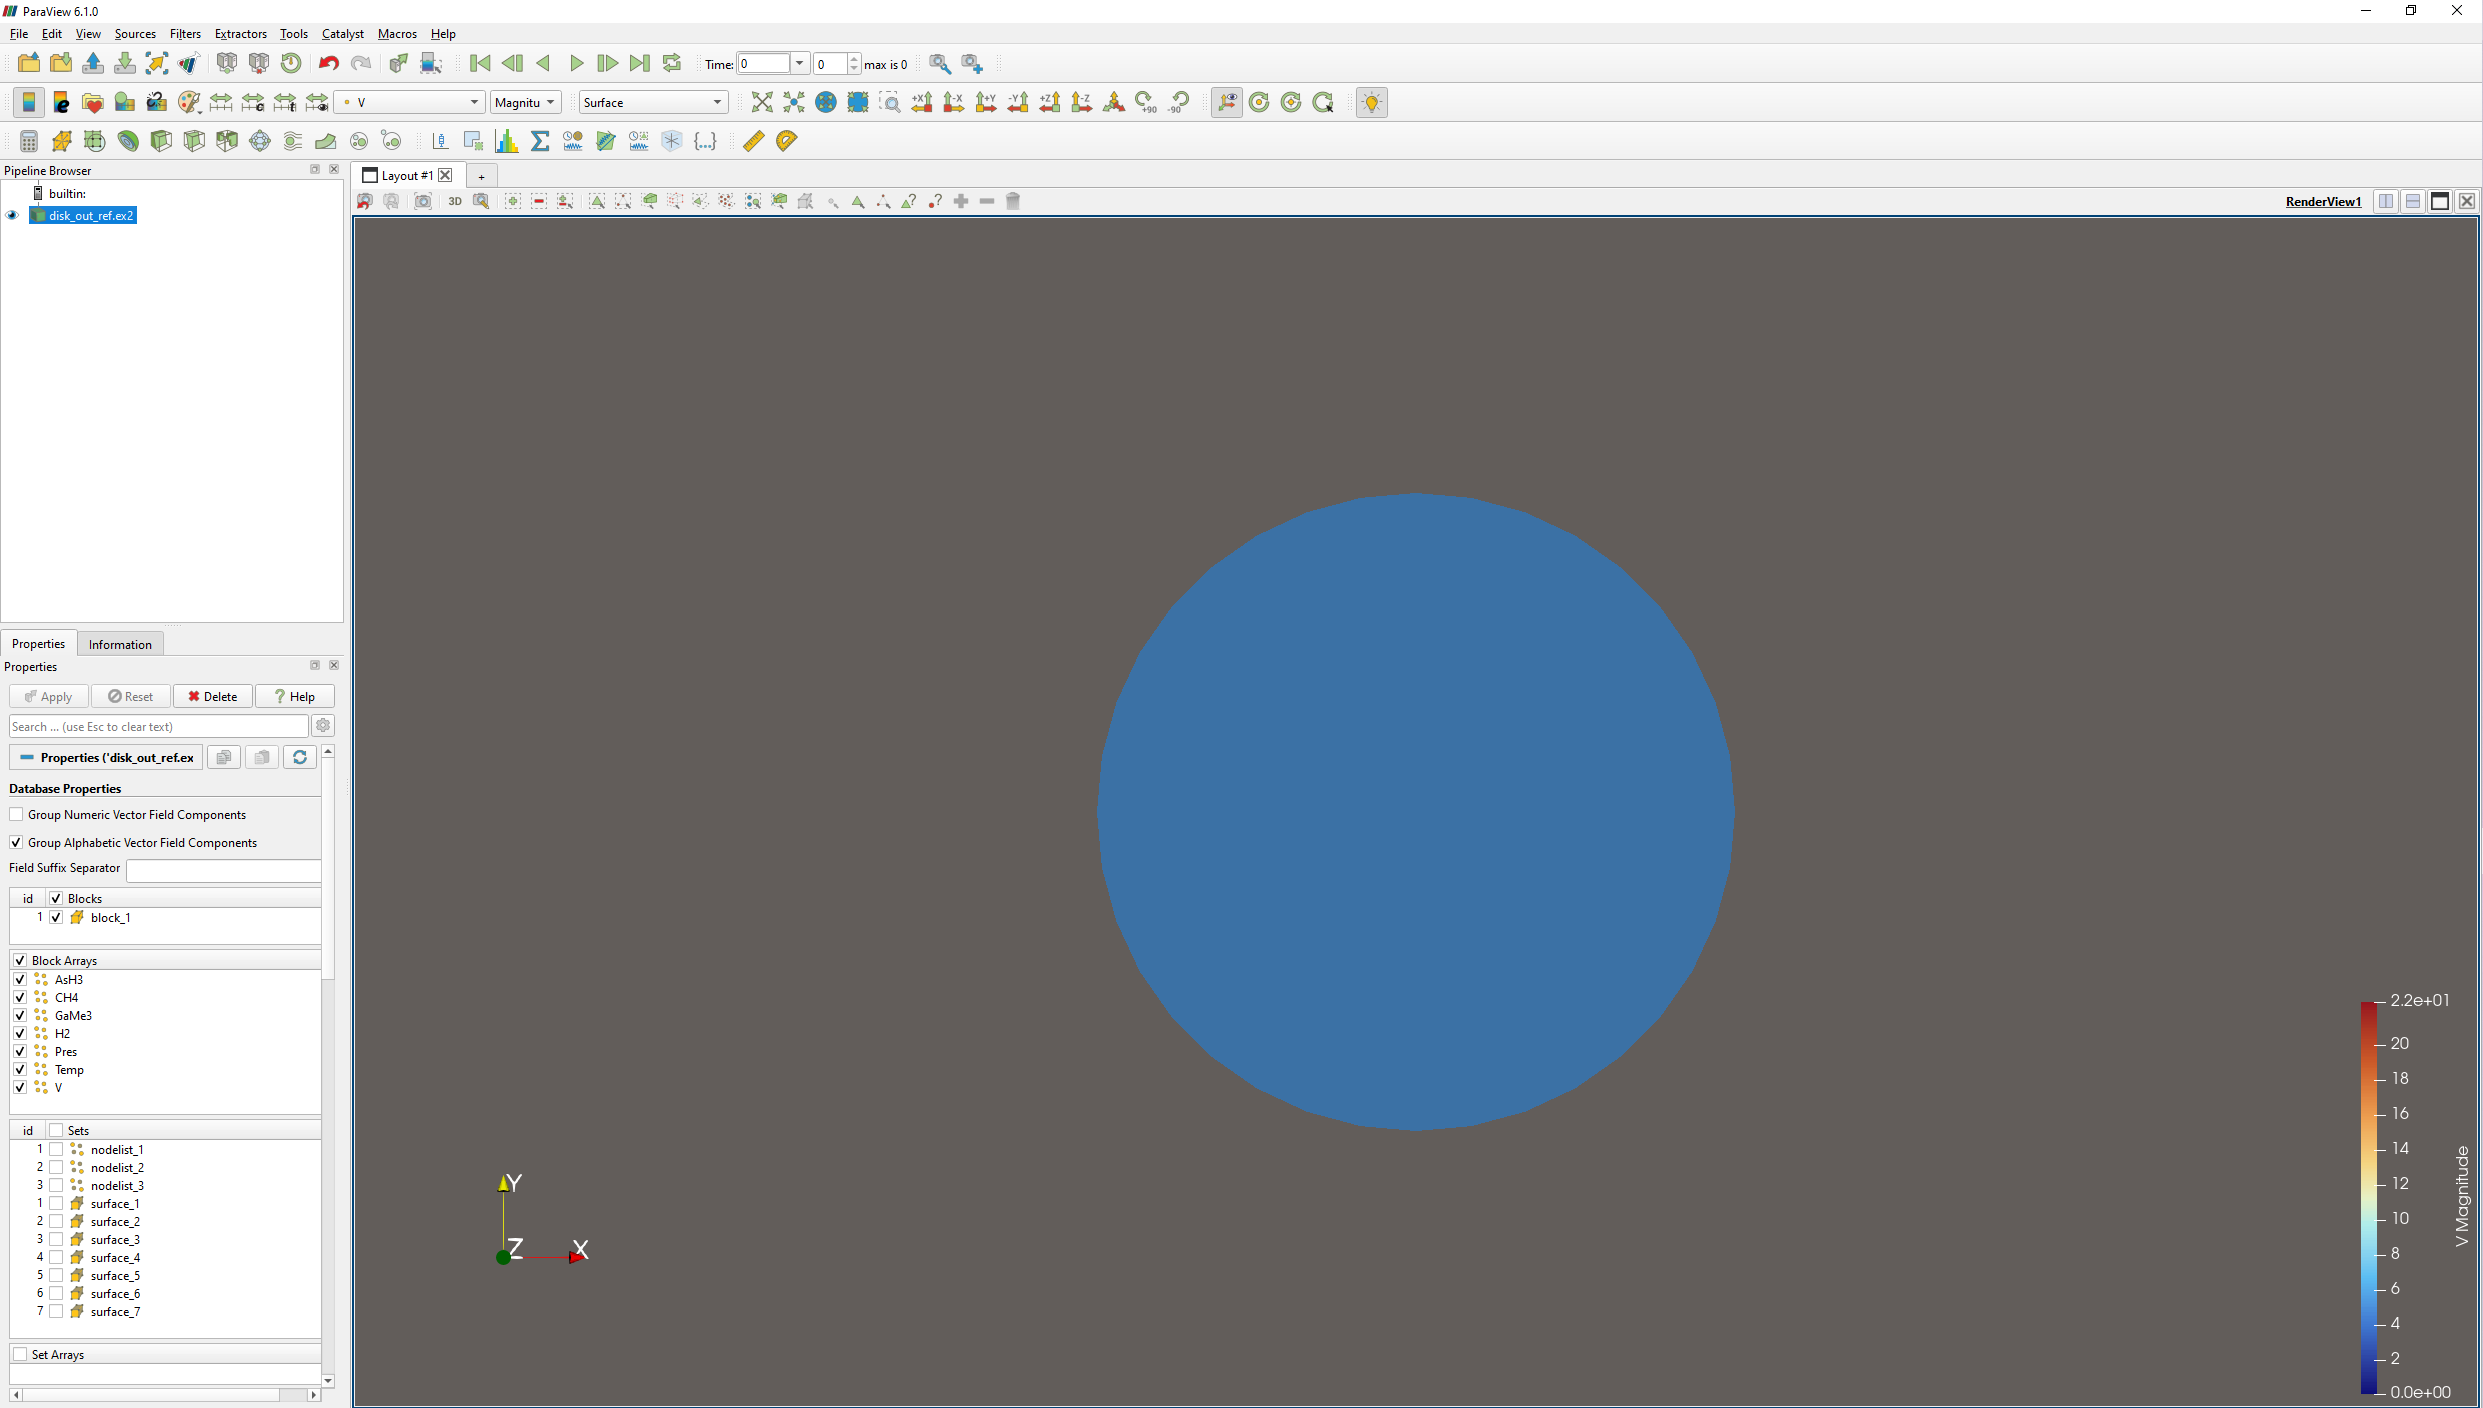
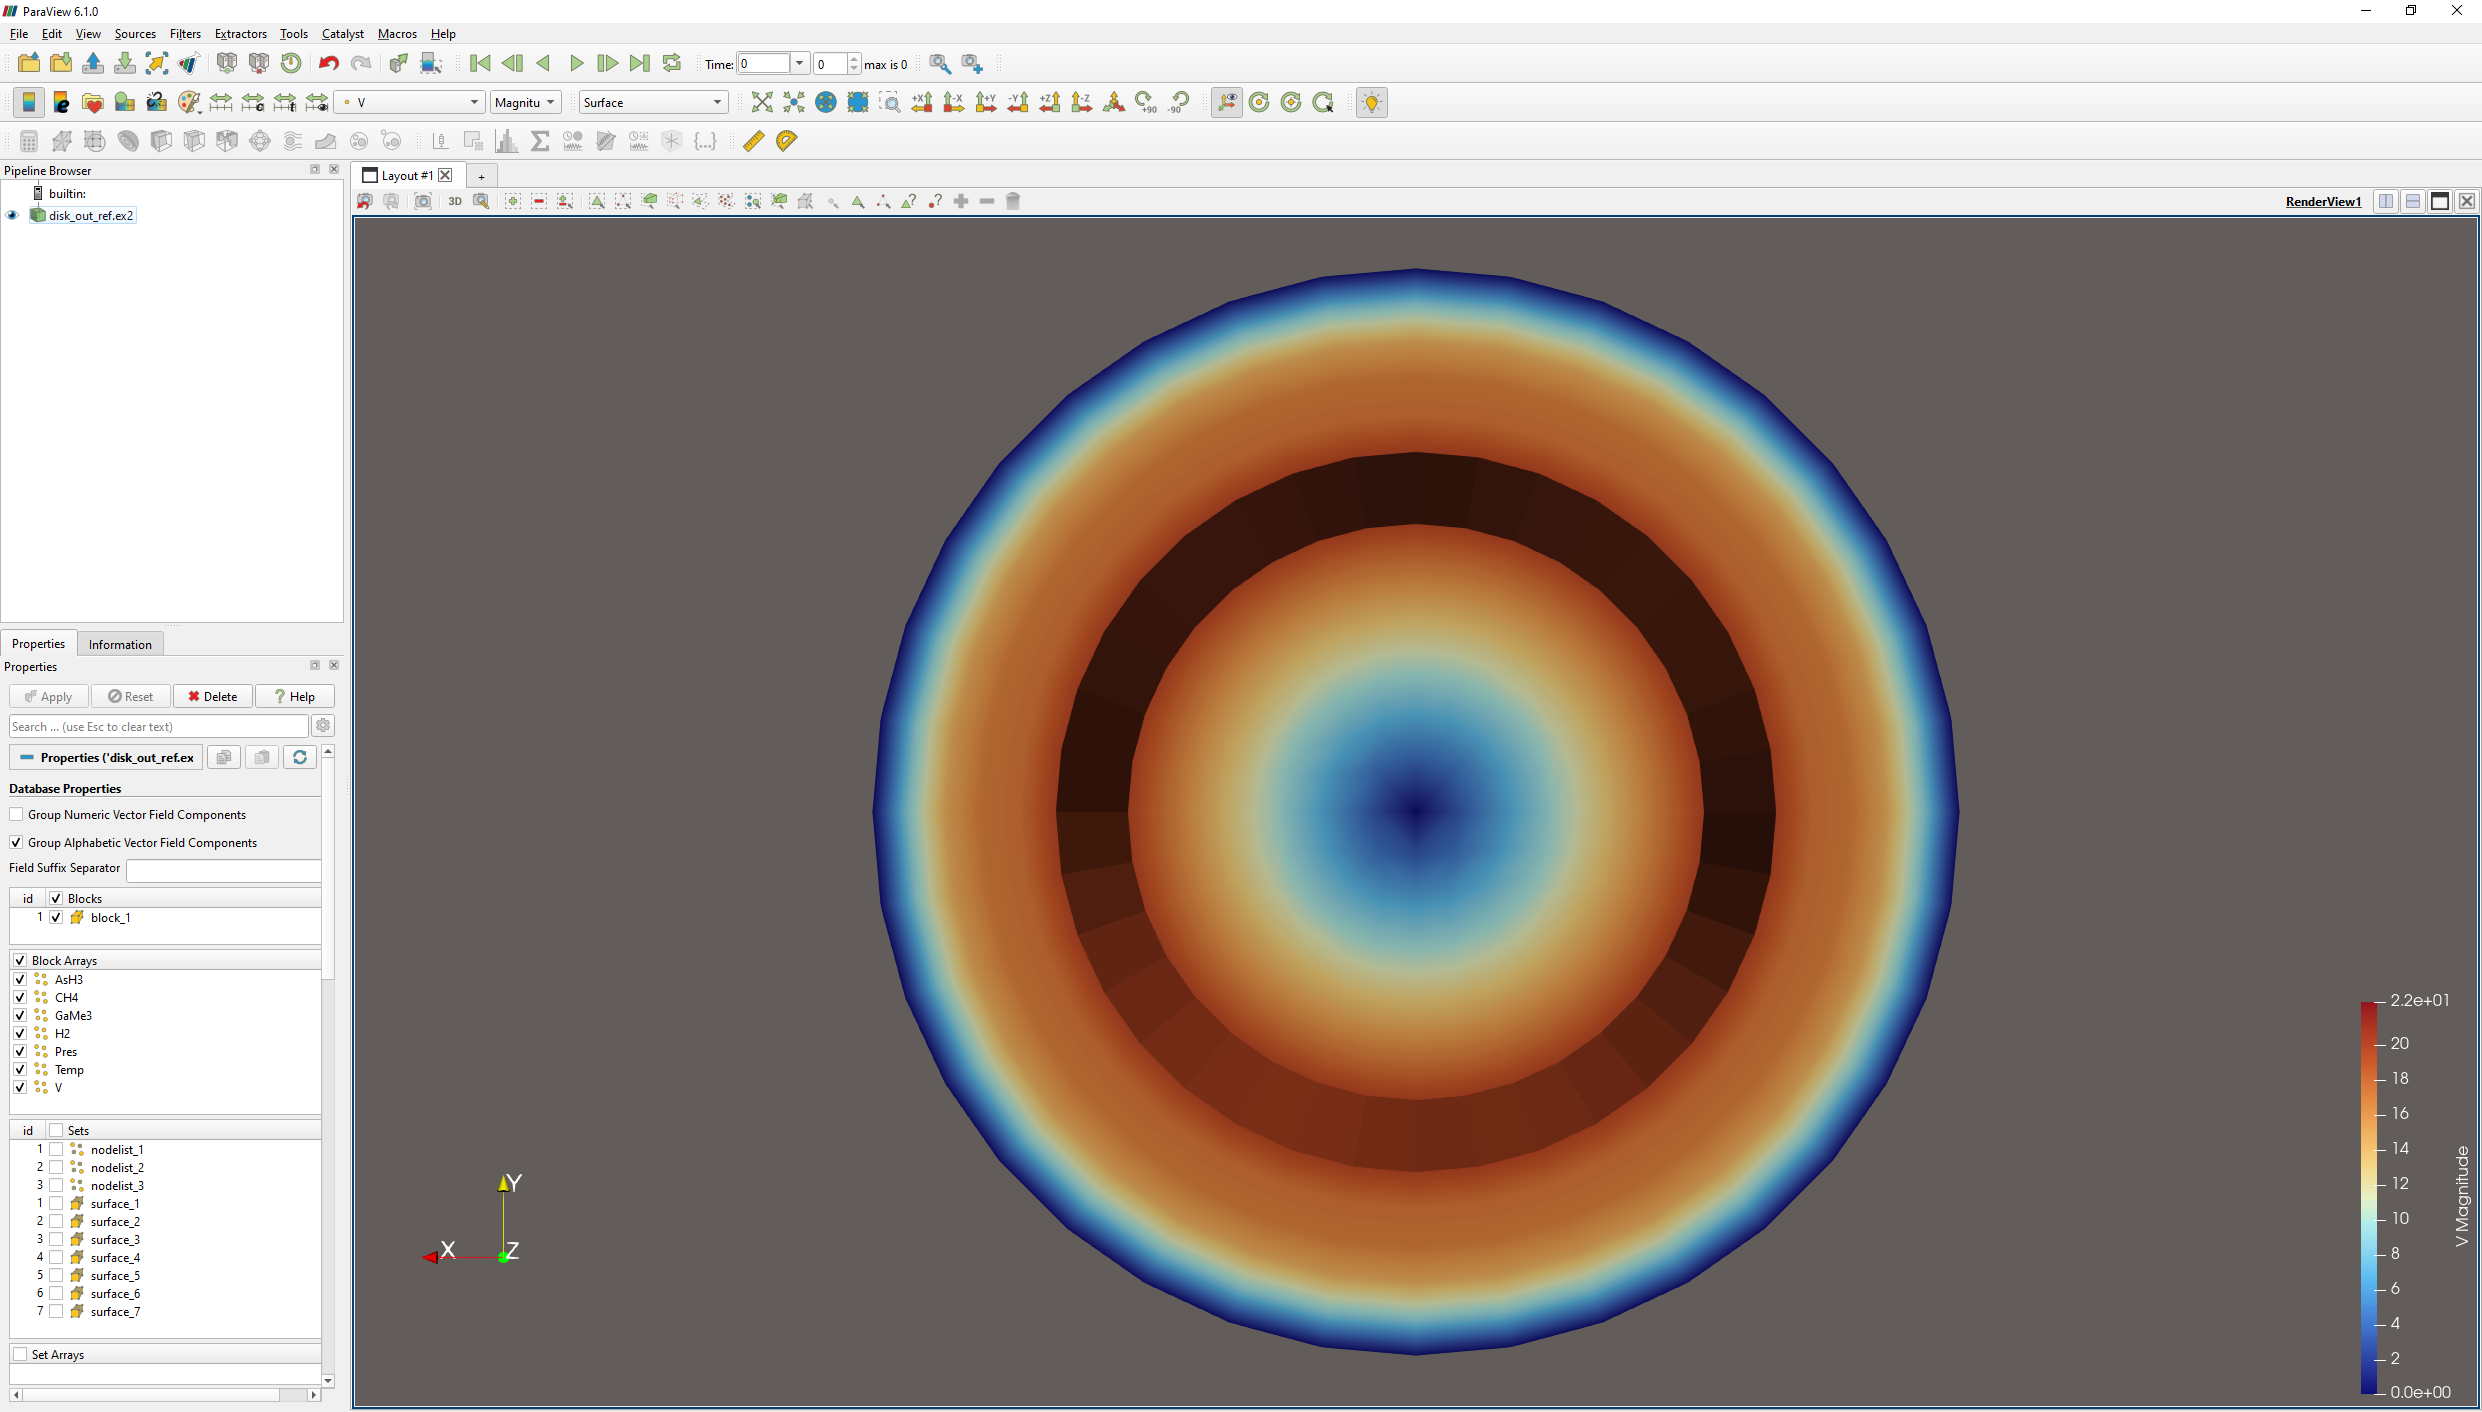
Update +Z view

diff --git a/index.md b/index.md
@@ -32,10 +32,14 @@ These outputs are relevant to AI-adjacent research workflows because refined sci
 ### Assets
 
 #### Raw dataset view
-
-This screenshot shows the initial loaded state of the scientific dataset in ParaView before any refinement filters were applied.
+This screenshot shows the initial loaded state of the scientific dataset in ParaView before any refinement filters were applied or changing the view.
 
 <a href="assets/01-raw-dataset-view.png" target="_blank" rel="noopener noreferrer"><img src="assets/01-raw-dataset-view.png" alt="Raw dataset view"></a>
+
+#### Set view direction to +Z 
+Using the given tool, I changed the direction. The initial loaded state's view did not have the velocity variance necessary for the demonstration.
+
+<a href="assets/02-colored-by-velocity.png" target="_blank" rel="noopener noreferrer"><img src="02-raw-dataset-plus-Z-view.png" alt="+Z view"></a> 
 
 #### Velocity-colored view
 This view applies the dataset’s `V` field for color mapping, which introduces a first-pass scientific variable overlay instead of a neutral solid-color surface. This is a basic refinement step because it starts turning the raw geometry into a more interpretable technical asset.
